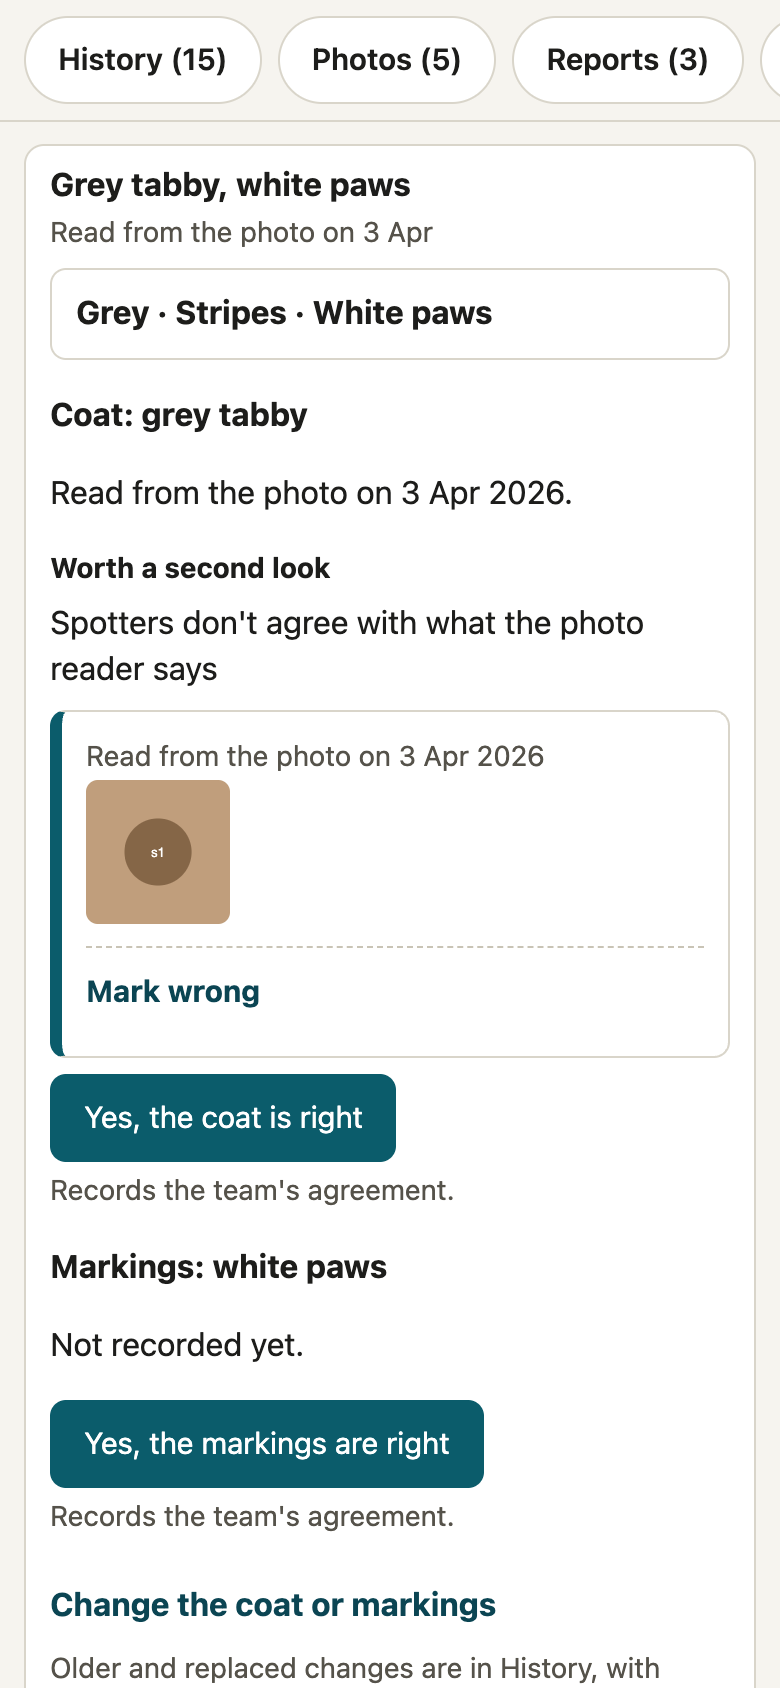
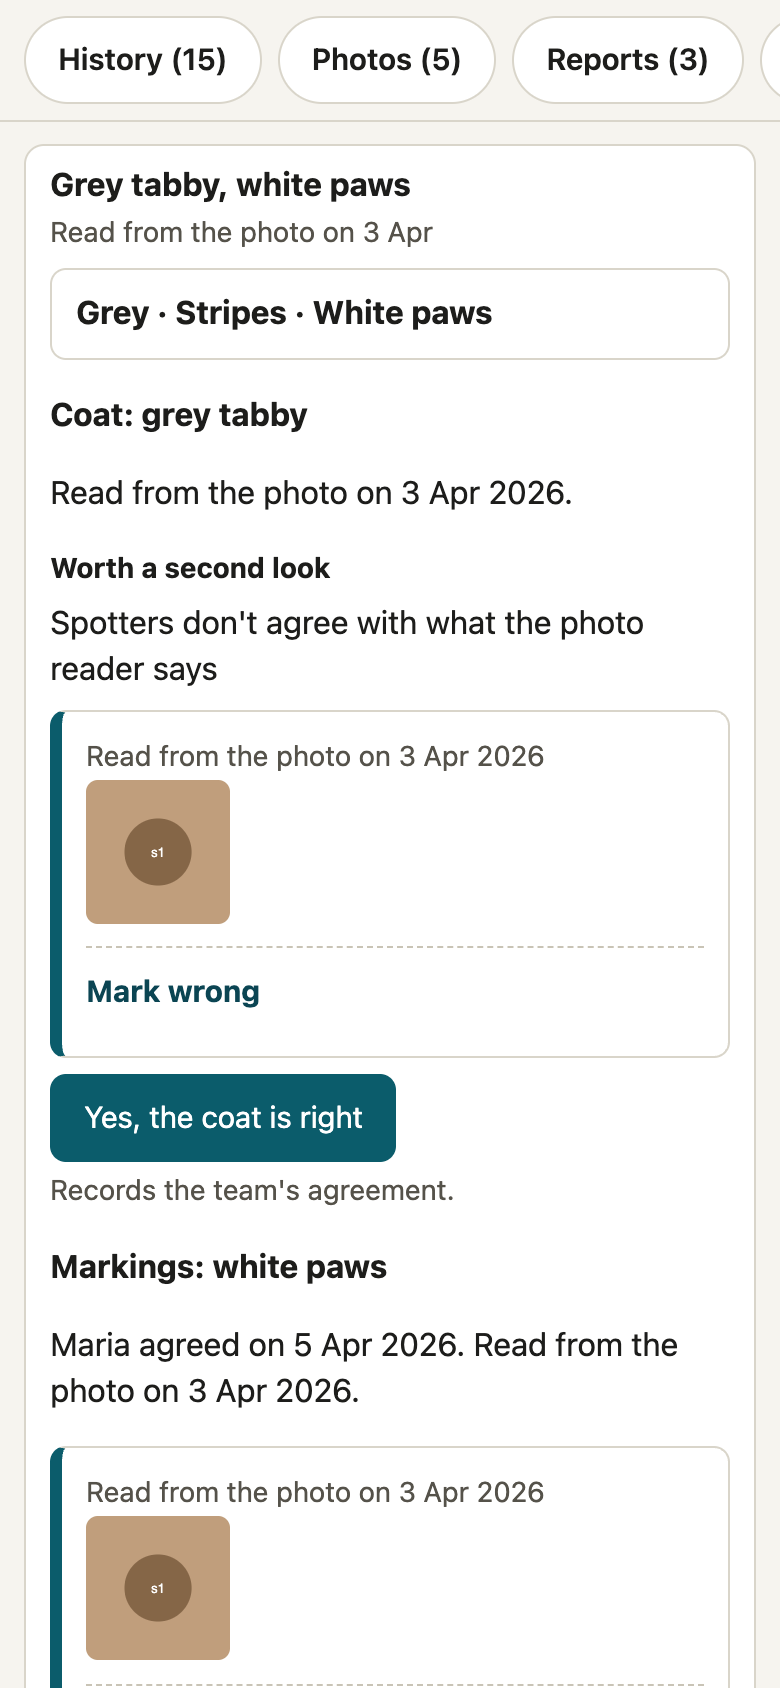
SYC-602 PR 3: no origin sentence without a counting change; scroll cue sits in its own space

Changed region(s): [[0.0615, 0.7701, 0.8615, 1.0], [0.6154, 0.7701, 0.8615, 0.8009]]

diff --git a/artifacts/api-server/src/lib/teamPages/layout.ts b/artifacts/api-server/src/lib/teamPages/layout.ts
@@ -658,9 +658,9 @@ details.filters>summary{display:none}
 .jump{margin:32px 0 0;border-radius:0}
 .catcols{display:grid;grid-template-columns:minmax(0,1fr) 360px;gap:0 28px;align-items:start}
 .catcols>div{min-width:0}
-.catside{position:sticky;top:76px;max-height:calc(100vh - 92px);overflow-y:auto;padding-bottom:18px}
-/* A soft fade at the bottom edge hints there is more below; it takes no taps and the padding keeps the last line clear of it. */
-.catside::after{content:"";display:block;position:sticky;bottom:-18px;height:18px;margin-top:-18px;background:linear-gradient(to bottom,rgba(29,29,27,0),rgba(29,29,27,.16));pointer-events:none}
+.catside{position:sticky;top:76px;max-height:calc(100vh - 92px);overflow-y:auto}
+/* A soft fade at the bottom edge hints there is more below; it takes no taps and at the end of the scroll it sits in its own 18px below the last item, so it never covers anything. */
+.catside::after{content:"";display:block;position:sticky;bottom:0;height:18px;background:linear-gradient(to bottom,rgba(29,29,27,0),rgba(29,29,27,.16));pointer-events:none}
 }
 `;
 

diff --git a/artifacts/api-server/src/lib/teamPages/catPages.coat.test.ts b/artifacts/api-server/src/lib/teamPages/catPages.coat.test.ts
@@ -220,11 +220,13 @@ describe("the Coat and markings fold (SYC-602 Task 3.2)", () => {
     expect(fold(page())).not.toContain("Also recorded, not counted");
   });
 
-  it("says where a value came from when no change counts for it", () => {
+  it("draws no origin sentence when no change counts for a value", () => {
     const v = view({}, { statements: [stmt({ id: 520, codes: ["white_paws"], source: "spotter", counts: false, markable: true, photoUrl: null })] });
     const f = fold(page(v));
     const mark = f.slice(f.indexOf("<h3>Markings"));
-    expect(mark).toContain("Not recorded yet");
+    expect(mark).not.toContain("Not recorded yet");
+    // Straight after the heading comes the uncounted-list label, not an origin sentence.
+    expect(mark.slice(mark.indexOf("</h3>") + 5).startsWith('<p class="label">Also recorded, not counted</p>')).toBe(true);
   });
 
   it("keeps Worth a second look and the guardian warning", () => {

diff --git a/artifacts/api-server/src/lib/teamPages/appearancePage.ts b/artifacts/api-server/src/lib/teamPages/appearancePage.ts
@@ -496,8 +496,8 @@ function foldKind(
   const coat = kind === "coat" && a.parts ? { colours: a.parts.colours.value, pattern: a.parts.pattern.value } : undefined;
   return (
     `<h3>${esc(heading)}</h3>` +
-    // A value with no counting change behind it still says so (spec 3.7: one sentence each).
-    (origins.length ? `<p>${esc(origins.join(". "))}.</p>` : phrase !== null ? "<p>Not recorded yet.</p>" : "") +
+    // No counting change means no sentence: real data cannot give a value without one.
+    (origins.length ? `<p>${esc(origins.join(". "))}.</p>` : "") +
     (reasons.length
       ? `<p class="label">${esc(tr(lang, "appearance.checkTitle"))}</p>${reasonList(lang, reasons)}`
       : "") +
